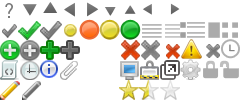
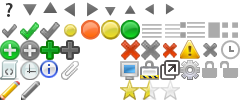
some fixes and improvements

diff --git a/wa-content/css/wa/wa-1.3.css b/wa-content/css/wa/wa-1.3.css
@@ -386,6 +386,7 @@ input.long { min-width: 350px !important; width: 350px !important; }
 .field .value img.overhanging { position: absolute; left: -20px; }
 .field .value i.icon16.overhanging { position: absolute; left: -20px; margin: 0; top: 2px; }
 .field .value i.icon10.overhanging { position: absolute; margin-left: -17px; margin-right: 7px; }
+.field .value i.icon16 { vertical-align: middle; }
 .field .value.no-shift i.icon16.overhanging { top: 8px; }
 .field .value .address-subfield { padding:1px 0; }
 .field .value input, .field .value select { vertical-align:middle; }
@@ -464,9 +465,9 @@ ul.menu-v img.overhanging { margin-left: -24px; margin-top: -8px; position: rela
 ul.menu-v i.icon16.overhanging { position: absolute; left: 4px; margin: 0; top: 2px; }
 ul.menu-v i.icon10.overhanging { position: absolute; left: 9px; margin: 0; }
 ul.menu-v.with-icons li { padding: 5px 2px 5px 24px; margin-left: -4px; }
-ul.menu-v.with-icons a { padding-left: 23px; margin-left: -23px; }
+ul.menu-v.with-icons a { padding-left: 24px; margin-left: -24px; }
 ul.menu-v.with-icons i.icon10 { margin-left: -17px; margin-right: 7px; }
-ul.menu-v.with-icons i.icon16 { margin-left: -20px; margin-right: 4px; }
+ul.menu-v.with-icons i.icon16 { margin-left: -20px; margin-right: 5px; }
 ul.menu-v.with-icons i.icon10.no-overhanging, ul.menu-v.with-icons i.icon16.no-overhanging { margin-left: 0px; margin-right: 0px; }
 ul.menu-v.collapsible { padding-left: 12px; }
 ul.menu-v.compact li { padding-top: 1px; padding-bottom: 1px; }
@@ -916,8 +917,9 @@ i.icon16.hidden { display: none; }
 .icon16.notebooks  { background-position: -80px -80px; }
 .icon16.calendar  { background-position: -48px -48px; }
 .icon16.exclamation { background-position: -64px -48px; }
-.icon16.attachment { background-position: -80px -48px; }
-.icon16.attachment-small { background-position: -96px -48px; }
+.icon16.exclamation-red { background-position: -80px -48px; }
+.icon16.attachment { background-position: -96px -48px; }
+.icon16.attachment-small { background-position: -112px -48px; }
 .icon16.tags { background-position: -480px -48px; }
 .icon16.stack { background-position: -128px -80px; }
 .icon16.checkboxes { background-position: -144px -80px; }
@@ -1073,14 +1075,14 @@ i.icon10 { background-repeat:no-repeat; background-image: url(../../../wa-conten
     #wa-applist { margin-left: 170px; margin-right: 140px; }
     
     .sidebar,
-    .sidebar.left200px { width: 170px !important; }
-    .sidebar.left250px { width: 200px !important; }
-    .sidebar.right200px { width: 170px !important; }
-    .sidebar.right250px { width: 200px !important; }
-    .content.left200px { margin-left: 170px !important; }
-    .content.left250px { margin-left: 200px !important; }
-    .content.right200px { margin-right: 170px !important; }
-    .content.right250px { margin-right: 200px !important; }
+    .sidebar.left200px { width: 170px; }
+    .sidebar.left250px { width: 200px; }
+    .sidebar.right200px { width: 170px; }
+    .sidebar.right250px { width: 200px; }
+    .content.left200px { margin-left: 170px; }
+    .content.left250px { margin-left: 200px; }
+    .content.right200px { margin-right: 170px; }
+    .content.right250px { margin-right: 200px; }
  
     .field .name { width: 125px; }   
     .field .value { margin-left: 150px; }   

diff --git a/wa-system/design/templates/Design.html b/wa-system/design/templates/Design.html
@@ -25,7 +25,7 @@
                             {$_url = "{$design_url}theme={$r.theme}&domain={urlencode($r._domain)}&route={$r._id}"}
                             <li class="no-icon 2{if $current_url == $_url} selected{/if}" data-routing="{$r._routing_url}">
                                 <a class="bold" href="{$design_url}theme={$r.theme}&domain={urlencode($r._domain)}&route={$r._id}">
-                                    <span class="url">{$_r_label = $r._domain|cat:'/':$r.url}{str_replace('www.','',$_r_label)|truncate:23:'...':false:true}</span>
+                                    <span data-url="{$r._preview_url|escape}" class="url">{$_r_label = $r._domain|cat:'/':$r.url}{str_replace('www.','',$_r_label)|truncate:23:'...':false:true}</span>
                                     <span class="hint">{$_t.name}</span>
                                 </a>
                             </li>
@@ -52,10 +52,10 @@
                     {/foreach}
                 </ul>
             </li>
-    
+
             {if $theme.preview_url}
                 <li class="float-right">
-                    <a href="{$theme.preview_url|escape}" target="_blank" class="wa-theme-preview" title="[s`Site`]"><i class="icon48 preview"></i>[s`Site`]</a>
+                    <a data-url="{$theme.preview_url|escape}" href="{$theme.preview_url|escape}" target="_blank" class="wa-theme-preview" title="[s`Site`]"><i class="icon48 preview"></i><span data-used="[s`Site`]" data-preview="[s`Preview`]">{if $theme.is_used}[s`Site`]{else}[s`Preview`]{/if}</span></a>
                 </li>
             {/if}    
             
@@ -154,6 +154,13 @@
                 } else {
                     $("#wa-theme-active span.hint").empty();
                 }
+                if ($(this).find('.url').data('url')) {
+                    $('.wa-theme-preview').attr('href', $(this).find('.url').data('url'));
+                    $('.wa-theme-preview').find('span').html($('.wa-theme-preview').find('span').data('used'));
+                } else {
+                    $('.wa-theme-preview').attr('href', $('.wa-theme-preview').data('url'));
+                    $('.wa-theme-preview').find('span').html($('.wa-theme-preview').find('span').data('preview'));
+                }
                 $('#wa-design-menu > li > a').each(function () {
                     if ($(this).parent().data('action')) {
                         $(this).attr('href', href + '&action=' + $(this).parent().data('action'));
@@ -214,7 +221,7 @@
         });
 
         {if !$options.is_ajax}
-            $('#wa-design-menu > li > a').click(function () {
+            $('#wa-design-menu > li > a').not('.wa-theme-preview').click(function () {
                 waDesignLoad($(this).attr('href').replace(/.*?#\//, '').replace(/\/$/, ''));
             });
         {/if}

diff --git a/wa-system/datetime/waDateTime.class.php b/wa-system/datetime/waDateTime.class.php
@@ -40,7 +40,7 @@ class waDateTime
         }
     }
 
-    protected static function getAllTimeZones()
+    public static function getAllTimeZones()
     {
         $file = dirname(__FILE__)."/data/timezones.php";
         if (file_exists($file)) {
@@ -52,45 +52,49 @@ class waDateTime
         foreach ($data as $time_zone_id) {
             $t = explode('/', $time_zone_id, 2);
             $date_time = new DateTime('now');
-            $date_time->setTimezone(new DateTimeZone($time_zone_id));
+            $tz = new DateTimeZone($time_zone_id);
+            $date_time->setTimezone($tz);
             $offset = (float)$date_time->getOffset()/3600;
+            $group = count($tz->getTransitions(strtotime('-1 year'), time()));
             if (isset($t[1])) {
-                $time_zones[$offset][$t[0]][] = $t[1];
+                $time_zones[$offset][$group][$t[0]][] = $t[1];
             } else {
-                $time_zones[$offset][''][] = $t[0];
+                $time_zones[$offset][$group][''][] = $t[0];
             }
         }
 
         ksort($time_zones);
 
         $result = array();
-        foreach ($time_zones as $offset => $offset_zones) {
-            if ($offset >= 10) {
-                $offset = '+'.$offset;
-            } elseif ($offset >= 0 && $offset < 10) {
-                $offset = '+0'.$offset;
-            } elseif ($offset < 0 && $offset > -10) {
-                $offset = '−0'.abs($offset);
-            } elseif ($offset <= -10) {
-                $offset = '−'.abs($offset);
-            }
-            foreach ($offset_zones as $continent => $zones) {
-                if (count($zones) <= 5) {
-                    $result[($continent ? $continent."/" : '').$zones[0]] = array($offset, $zones);
-                } else {
-                    $i = 0;
-                    $n = count($zones);
-                    while ($i < $n) {
-                        $tmp = array();
-                        for ($j = 0; $j < 5 && $i + $j < $n; $j++) {
-                            $z = $zones[$i + $j];
-                            if (($k = strpos($z, '/')) !== false) {
-                                $z = substr($z, $k + 1);
+        foreach ($time_zones as $offset => $group_offset_zones) {
+            foreach ($group_offset_zones as $group => $offset_zones) {
+                if ($offset >= 10) {
+                    $str_offset = '+' . $offset;
+                } elseif ($offset >= 0 && $offset < 10) {
+                    $str_offset = '+0' . $offset;
+                } elseif ($offset < 0 && $offset > -10) {
+                    $str_offset = '−0' . abs($offset);
+                } elseif ($offset <= -10) {
+                    $str_offset = '−' . abs($offset);
+                }
+                foreach ($offset_zones as $continent => $zones) {
+                    if (count($zones) <= 5) {
+                        $result[($continent ? $continent . "/" : '') . $zones[0]] = array($str_offset, $zones);
+                    } else {
+                        $i = 0;
+                        $n = count($zones);
+                        while ($i < $n) {
+                            $tmp = array();
+                            for ($j = 0; $j < 5 && $i + $j < $n; $j++) {
+                                $z = $zones[$i + $j];
+                                if (($k = strpos($z, '/')) !== false) {
+                                    $z = substr($z, $k + 1);
+                                }
+                                $tmp[] = $z;
                             }
-                            $tmp[] = $z;
+                            $result[$continent . "/" . $zones[$i]] = array($str_offset, $tmp);
+                            $i += 5;
                         }
-                        $result[$continent."/".$zones[$i]] = array($offset, $tmp);
-                        $i += 5;
                     }
                 }
             }

diff --git a/wa-system/contact/waContact.class.php b/wa-system/contact/waContact.class.php
@@ -108,18 +108,31 @@ class waContact implements ArrayAccess
     }
 
     /**
+     * Returns contact's photo URL @2x.
+     *
+     * @param int $size
+     * @return string
+     */
+    public function getPhoto2x($size)
+    {
+        return self::getPhotoUrl($this->id, $this->id ? $this->get('photo') : null, $size, $size, $this['is_company'] ? 'company' : 'person', true);
+    }
+
+    /**
      * Returns the photo URL of the specified contact.
      *
-     * @param $id Contact id
-     * @param $ts Contact photo id stored in contact's 'photo' property. If not specified, the URL of the default
+     * @param int $id Contact id
+     * @param int $ts Contact photo id stored in contact's 'photo' property. If not specified, the URL of the default
      *     userpic is returned.
      * @param int|string|null $width Image width. Arbitrary integer value, or string value 'original', which requires
      *     that method must return the URL of the original image originally uploaded from a user's computer. Defaults to 96.
      * @param int|string|null $height Image height (integer). If not specified, the integer value specified for the
      *     $width parameter is used.
+     * @param string $type
+     * @param bool $retina
      * @return string
      */
-    public static function getPhotoUrl($id, $ts, $width = null, $height = null, $type = 'person')
+    public static function getPhotoUrl($id, $ts, $width = null, $height = null, $type = 'person', $retina = null)
     {
         if ($width === 'original') {
             $size = 'original';
@@ -132,10 +145,14 @@ class waContact implements ArrayAccess
             $size = $width.'x'.$height;
         }
 
+        if ($retina === null) {
+            $retina = (wa()->getEnv() == 'backend');
+        }
+
         $dir = self::getPhotoDir($id, false);
         
         if ($ts) {
-            if ($size != 'original' && wa()->getEnv() == 'backend') {
+            if ($size != 'original' && $retina) {
                 $size .= '@2x';
             }
             if (waSystemConfig::systemOption('mod_rewrite')) {
@@ -152,7 +169,7 @@ class waContact implements ArrayAccess
             if (!in_array($size, array(20, 32, 50, 96))) {
                 $size = 96;
             }
-            if (wa()->getEnv() == 'backend') {
+            if ($retina) {
                 $size .= '@2x';
             }
             if ($type == 'company') {

diff --git a/wa-system/auth/adapters/yandexAuth.class.php b/wa-system/auth/adapters/yandexAuth.class.php
@@ -49,13 +49,21 @@ class yandexAuth extends waOAuth2Adapter
                 'url' => 'http://'.$response['display_name'].'.ya.ru',
                 'name' => $response['real_name'],
             );
-            $name = explode(' ', $response['real_name'], 3);
-            if (count($name) == 1) {
-                $data['firstname'] = $name[0];
-                $data['lastname'] = '';
-            } else {
-                $data['firstname'] = $name[1];
-                $data['lastname'] = $name[0];
+            if (isset($response['first_name'])) {
+                $data['firstname'] = $response['first_name'];
+            }
+            if (isset($response['last_name'])) {
+                $data['lastname'] = $response['last_name'];
+            }
+            if (!isset($data['firstname']) && !isset($data['lastname'])) {
+                $name = explode(' ', $response['real_name'], 3);
+                if (count($name) == 1) {
+                    $data['firstname'] = $name[0];
+                    $data['lastname'] = '';
+                } else {
+                    $data['firstname'] = $name[0];
+                    $data['lastname'] = $name[1];
+                }
             }
             if (isset($response['default_email'])) {
                 $data['email'] = $response['default_email'];

diff --git a/wa-system/plugin/waPlugin.class.php b/wa-system/plugin/waPlugin.class.php
@@ -88,7 +88,7 @@ class waPlugin
             foreach ($files as $t => $file) {
                 try {
                     if (!$ignore_all) {
-                        include($file);
+                        $this->includeUpdate($file);
                         waFiles::delete($cache_database_dir);
                         $app_settings_model->set(array($this->app_id, $this->id), 'update_time', $t);
                     }
@@ -111,6 +111,14 @@ class waPlugin
             }
             $app_settings_model->set(array($this->app_id, $this->id), 'update_time', $t);
         }
+    }
+
+    /**
+     * @param string $file
+     */
+    private function includeUpdate($file)
+    {
+        include($file);
     }
 
     protected function install()

diff --git a/wa-system/contact/waContactsCollection.class.php b/wa-system/contact/waContactsCollection.class.php
@@ -249,8 +249,9 @@ class waContactsCollection
                             } else {
                                 $size = substr($f, 10);
                             }
+                            $retina = isset($this->options['photo_url_2x']) ? $this->options['photo_url_2x'] : null;
                             foreach ($data as $id => &$v) {
-                                $v[$f] = waContact::getPhotoUrl($id, $v['photo'], $size, $size, $v['is_company'] ? 'company' : 'person');
+                                $v[$f] = waContact::getPhotoUrl($id, $v['photo'], $size, $size, $v['is_company'] ? 'company' : 'person', $retina);
                             }
                             unset($v);
                         } else {

diff --git a/wa-system/layout/waLayout.class.php b/wa-system/layout/waLayout.class.php
@@ -44,8 +44,8 @@ class waLayout extends waController
             }
             // save referer
             if ($ref = waRequest::server('HTTP_REFERER')) {
-                $ref_parts = @parse_url($ref);
-                if ($ref_parts['host'] != waRequest::server('HTTP_HOST')) {
+                $ref_host = @parse_url($ref, PHP_URL_HOST);
+                if ($ref_host != waRequest::server('HTTP_HOST')) {
                     wa()->getResponse()->setCookie('referer', waRequest::server('HTTP_REFERER'), time() + 30 * 86400, null, '', false, true);
                 }
             }

diff --git a/wa-system/routing/waRouting.class.php b/wa-system/routing/waRouting.class.php
@@ -138,6 +138,13 @@ class waRouting
             if ($this->domain === null) {
                 return null;
             }
+            $pos = strpos($this->domain, ':');
+            if ($pos !== false) {
+                $port = substr($this->domain, $pos + 1);
+                if ($port == '80' || $port === '443') {
+                    $this->domain = substr($this->domain, 0, $pos);
+                }
+            }
             $u = trim($this->system->getRootUrl(), '/');
             if ($u) {
                 $this->domain .= '/'.$u;
